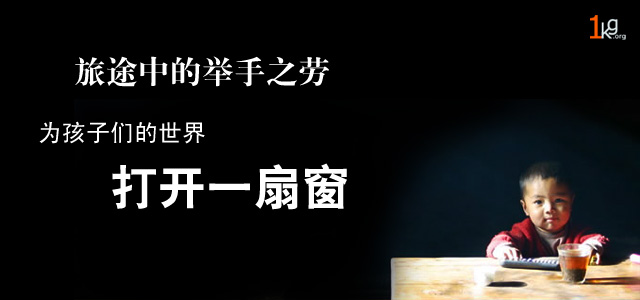
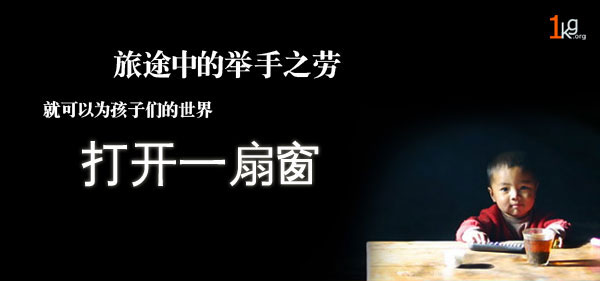
change ADs at homepage

Changed region(s): [[0.06, 0.3416, 0.54, 0.7117], [0.12, 0.1708, 0.57, 0.3132], [0.9, 0.0569, 0.99, 0.1423]]

diff --git a/public/stylesheets/core.css b/public/stylesheets/core.css
@@ -398,15 +398,16 @@ background:#d9e8af;border-bottom:1px #fff solid;color:#569701;}
 /* =headline ----------------------------------*/
 #headline {
   background-color: #d9e8af;
-  width: 100%;
-  height: 300px;
+  width: 600px;
+  height: 280px;
   overflow: hidden;
   position: relative;
+  margin-left:8px;
 }
 #headlineMenu {
   position: absolute;
-  bottom: 5px;
-  right: 10px;
+  bottom: 8px;
+  right: 8px;
   z-index: 10;
 }
 #headlineMenu a {
@@ -444,6 +445,7 @@ background:#d9e8af;border-bottom:1px #fff solid;color:#569701;}
 /* =siteIntro*/
 #siteIntro {
   background-color: #fff;
+  width:590px;
   border: #dedede solid 1px;
   margin: 20px 0;
   padding: 0 1em;
